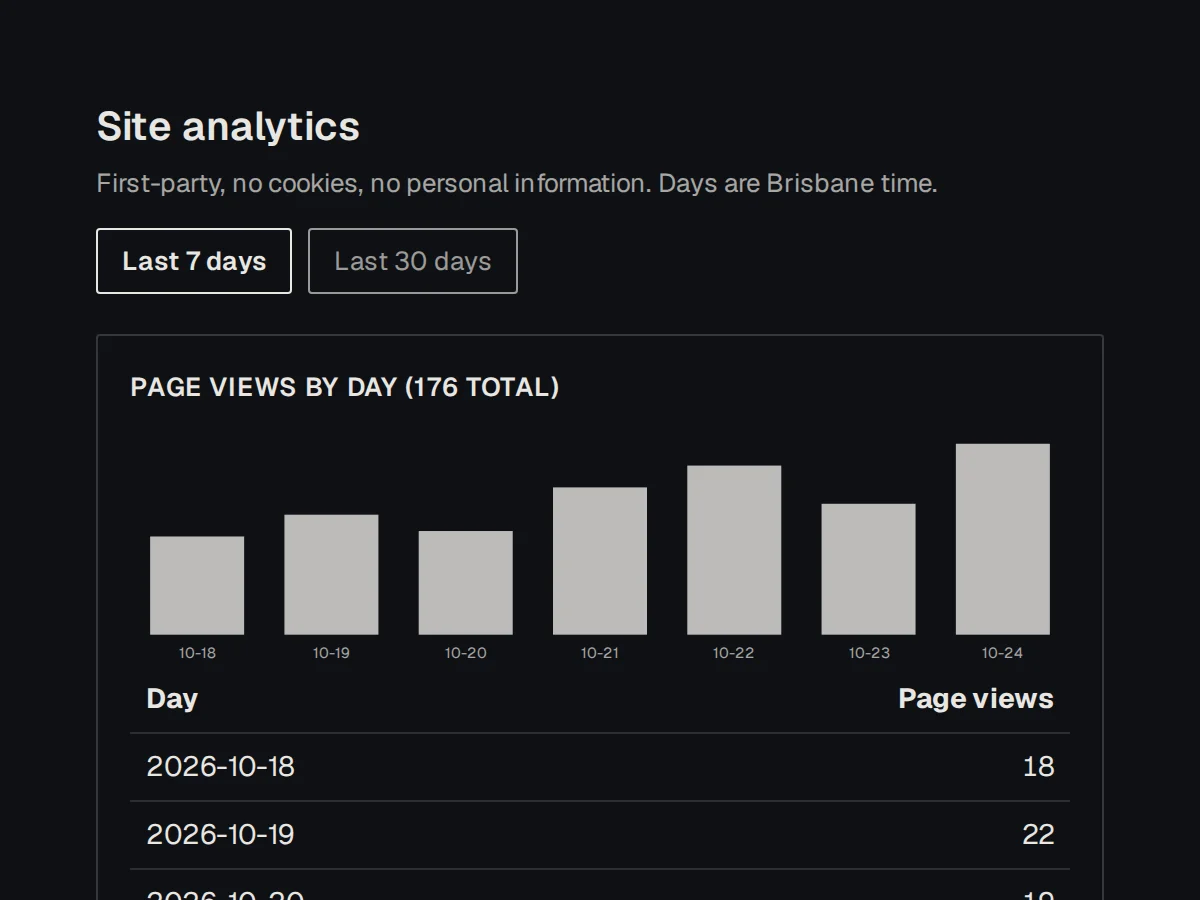
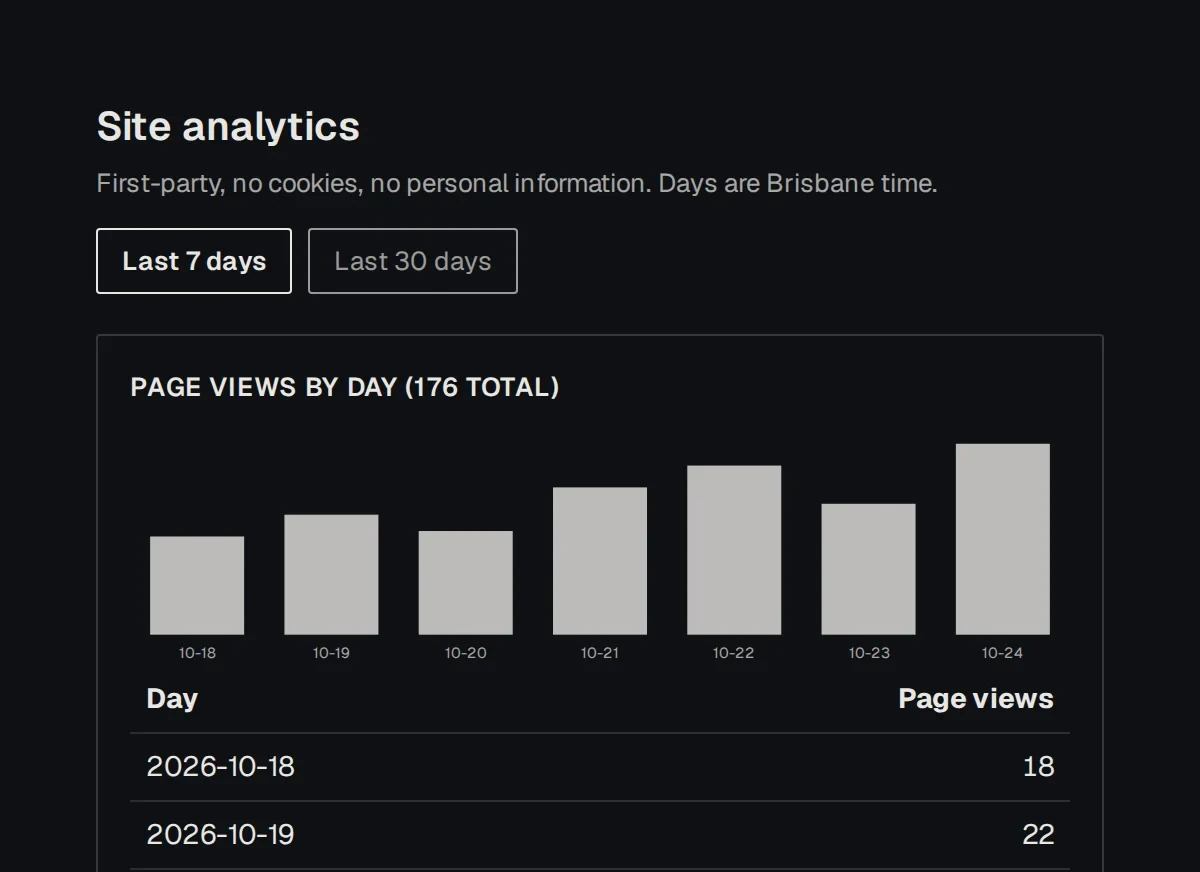
fix(web): visibility hero screen ends after a full row, not mid-row (UNI-3022)
The Site analytics screen was cropped through the 2026-10-20 row. It now ends below the 2026-10-19 row divider (1200x872); the declared size in pillar-visuals.ts matches and the file-size test reads it back from the webp header.

Gate: see the final-head gauntlet in the PR body.

diff --git a/apps/web/src/components/public/pillar-visuals.ts b/apps/web/src/components/public/pillar-visuals.ts
@@ -26,7 +26,7 @@ const screen = (file: string, width: number, height: number, frame: Screen['fram
 
 export const PILLAR_SCREENS: Record<Pillar['slug'], PillarScreens> = {
   visibility: {
-    hero: screen('visibility-site-analytics', 1200, 900, 'browser', 'The Unite-Group site analytics screen with sample numbers: page views by day for the last 7 days, 176 in total'),
+    hero: screen('visibility-site-analytics', 1200, 872, 'browser', 'The Unite-Group site analytics screen with sample numbers: page views by day for the last 7 days, 176 in total'),
     support: screen('visibility-top-referrers', 1116, 803, 'browser', 'Top referrers from the same screen: google.com, chatgpt.com, bing.com, perplexity.ai and linkedin.com, with sample counts', 3),
   },
   experience: {
